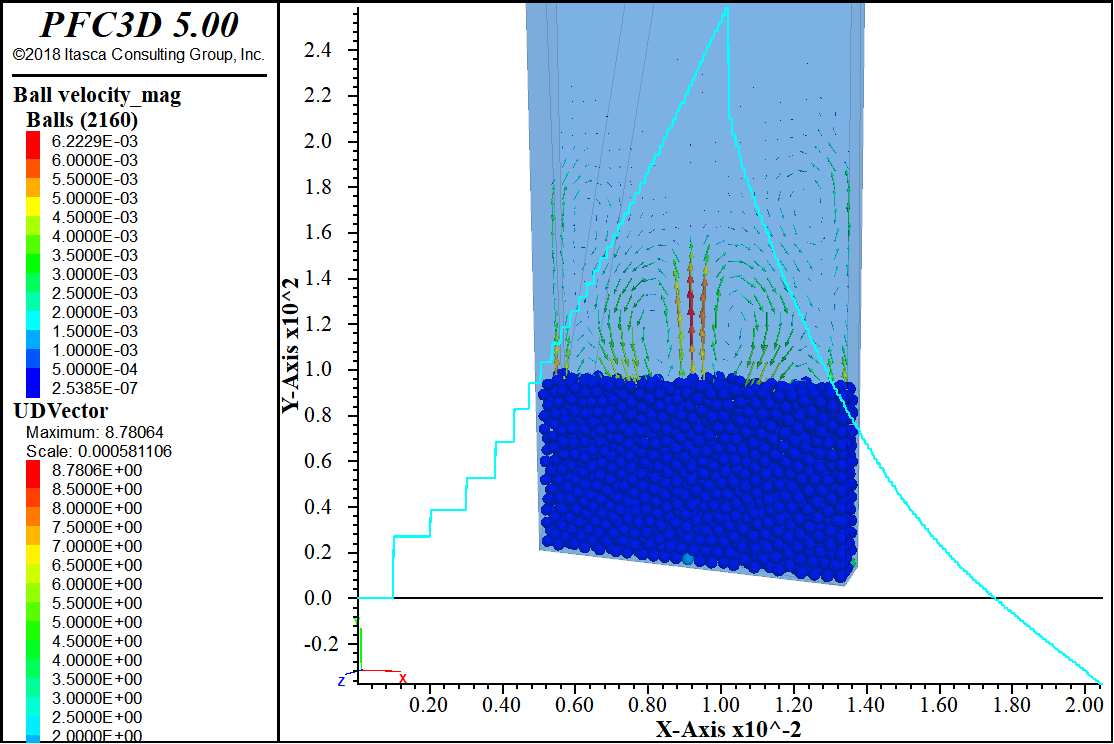
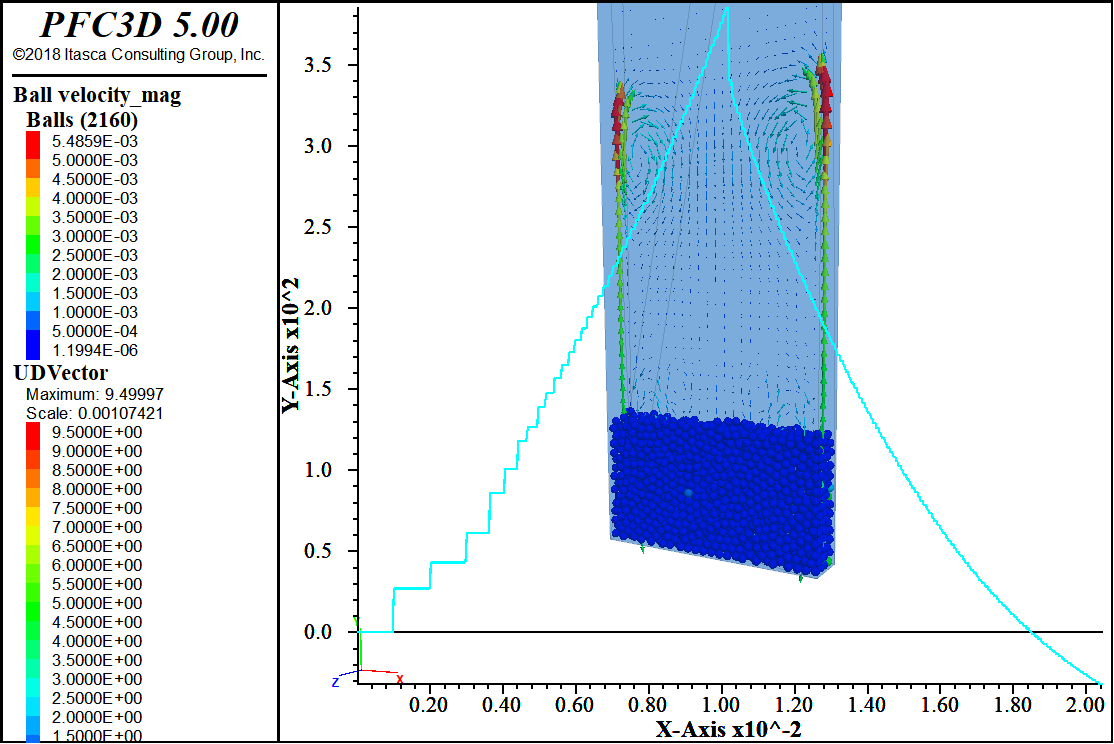
plot porosity, kernel as in paper

diff --git a/pfc_cfd_coupler/pfc_cfd_coupler/pfc_coupler.py b/pfc_cfd_coupler/pfc_cfd_coupler/pfc_coupler.py
@@ -67,7 +67,11 @@ class pfc_coupler(object):
 
     
     def kfunc(self,d,b):
-        return math.exp(-(d/b)**2)
+        x = d/b
+        if x<1:
+            return (1-x**2)**4
+        else:
+            return 0
     
     def updatePorosity(self):
         # backward interpolations
@@ -120,6 +124,23 @@ class pfc_coupler(object):
         arr = np.concatenate((self.elements_pos, self.elements_vel), 1)
         np.savetxt('vel.txt', arr, fmt='%1.6e', header="ITASCA VECTOR3D", comments='')
         it.command("vector import 'vel.txt'")
+
+    def plotPorosity(self):
+        f = open("elements.geom","w")
+        f.write("ITASCA GEOMETRY3D\nNODES\n")
+        for i in range(1,self.nbElem+1):
+            f.write(str(i))
+            f.write(' ')
+            for j in self.elements_pos[i-1]:
+                f.write(str(j))
+                f.write(' ')
+            f.write('EXTRA 1 ')
+            f.write(str(self.elements_porosity[i-1]))
+            f.write(' EXTRA 2 ')
+            f.write(str(np.linalg.norm(self.elements_drag[i-1])))
+            f.write('\n')
+        f.close()
+        it.command("geometry import 'elements.geom'")
 
     def updateTimeStep(self):
         self.dt = 100.0

diff --git a/fluidized_bed_2/pfc_fluidized_bed_2.py b/fluidized_bed_2/pfc_fluidized_bed_2.py
@@ -7,16 +7,23 @@ restore ../fluidized_bed_2/ini.sav
 set timestep max 1e-4
 set mechanical age 0.0
 history add id 3 fish @pressure_drop
+plot clear
+plot add ball
+plot add axes
+plot add udvector
+plot add wall transparency 70
 plot add hist 3 vs 1
+plot add geometry contour
 """)
 
 coupler.max_dt = 0.001
-coupler.bandwidth = 0.015
+coupler.bandwidth = 0
 coupler.pressureMeasureCell1 = 12
 coupler.pressureMeasureCell2 = 1887
 coupler.smallest_size = 0.0016
-coupler.solve(0.02)
+coupler.solve(0.0001)
 coupler.plotFluidVel()
+coupler.plotPorosity()
 coupler.stopSolve()
 coupler.close()
 

diff --git a/fluidized_bed_2/make_ini.py b/fluidized_bed_2/make_ini.py
@@ -28,11 +28,6 @@ def fluid_time
 end
 history add id 1 fish @fluid_time
 history add id 2 fish @ball_height
-plot clear
-plot add ball
-plot add axes
-plot add udvector
-plot add wall transparency 70
 cy 20000
 ball ini damp 0.7
 cy 20000
